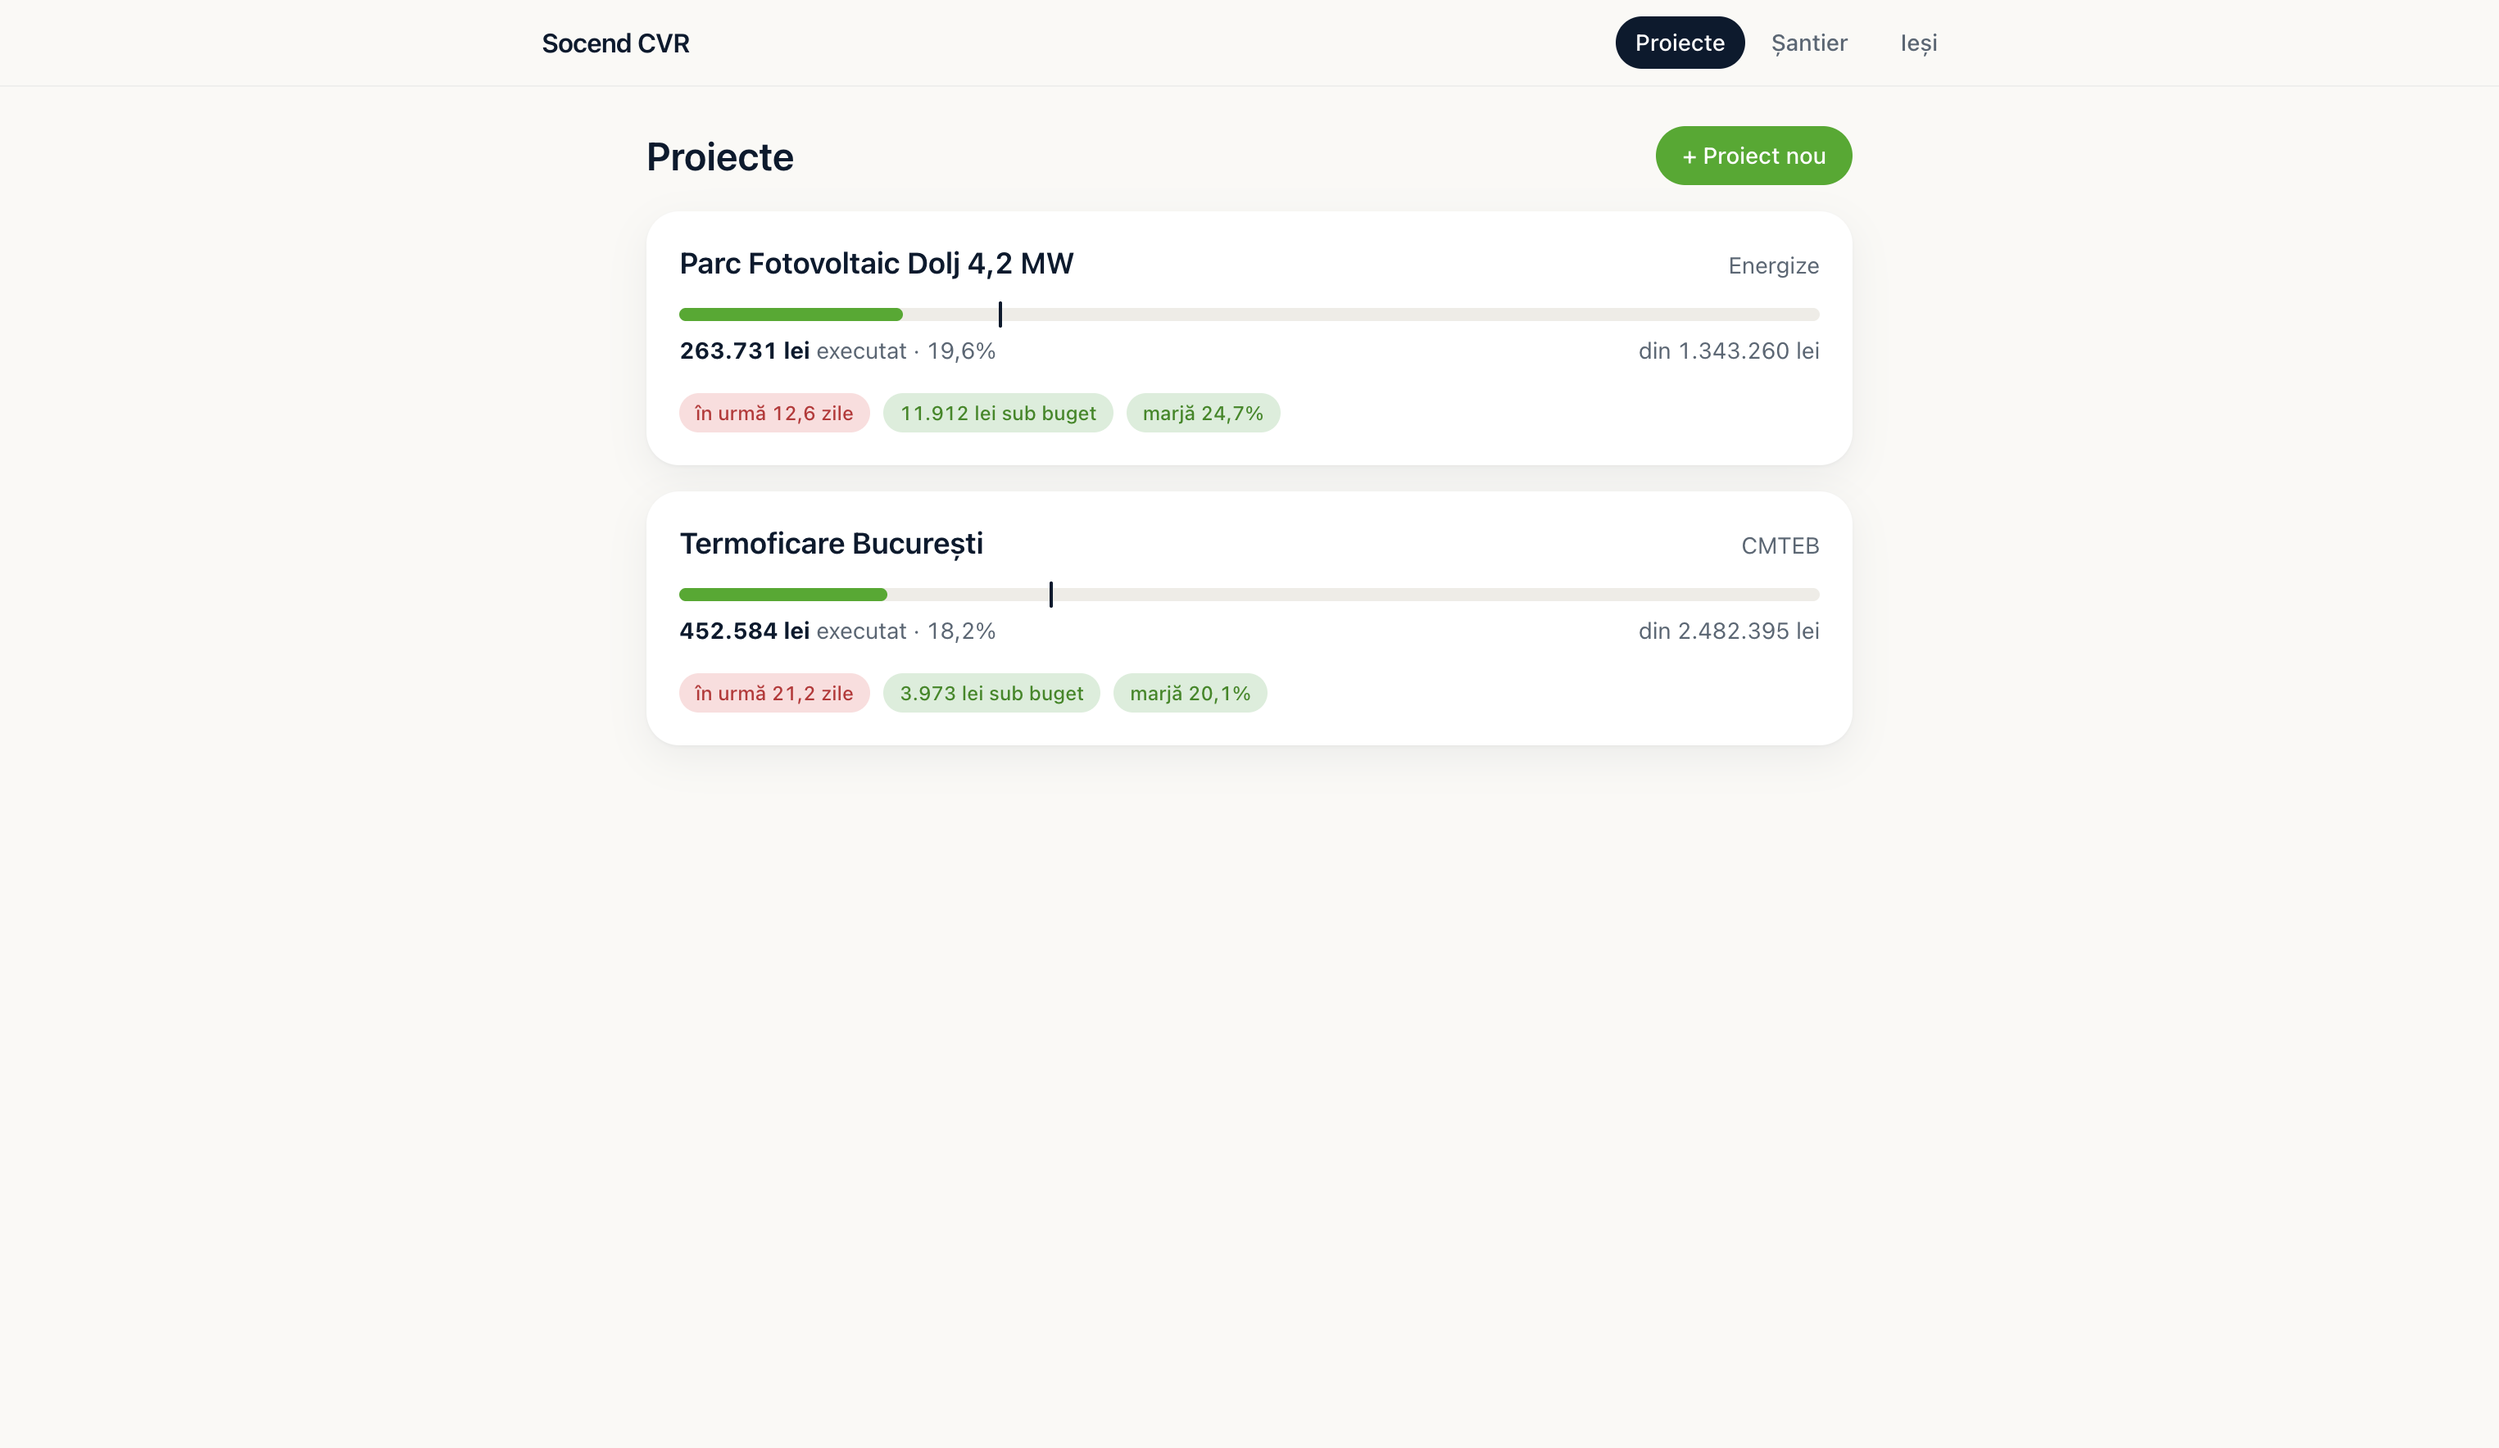
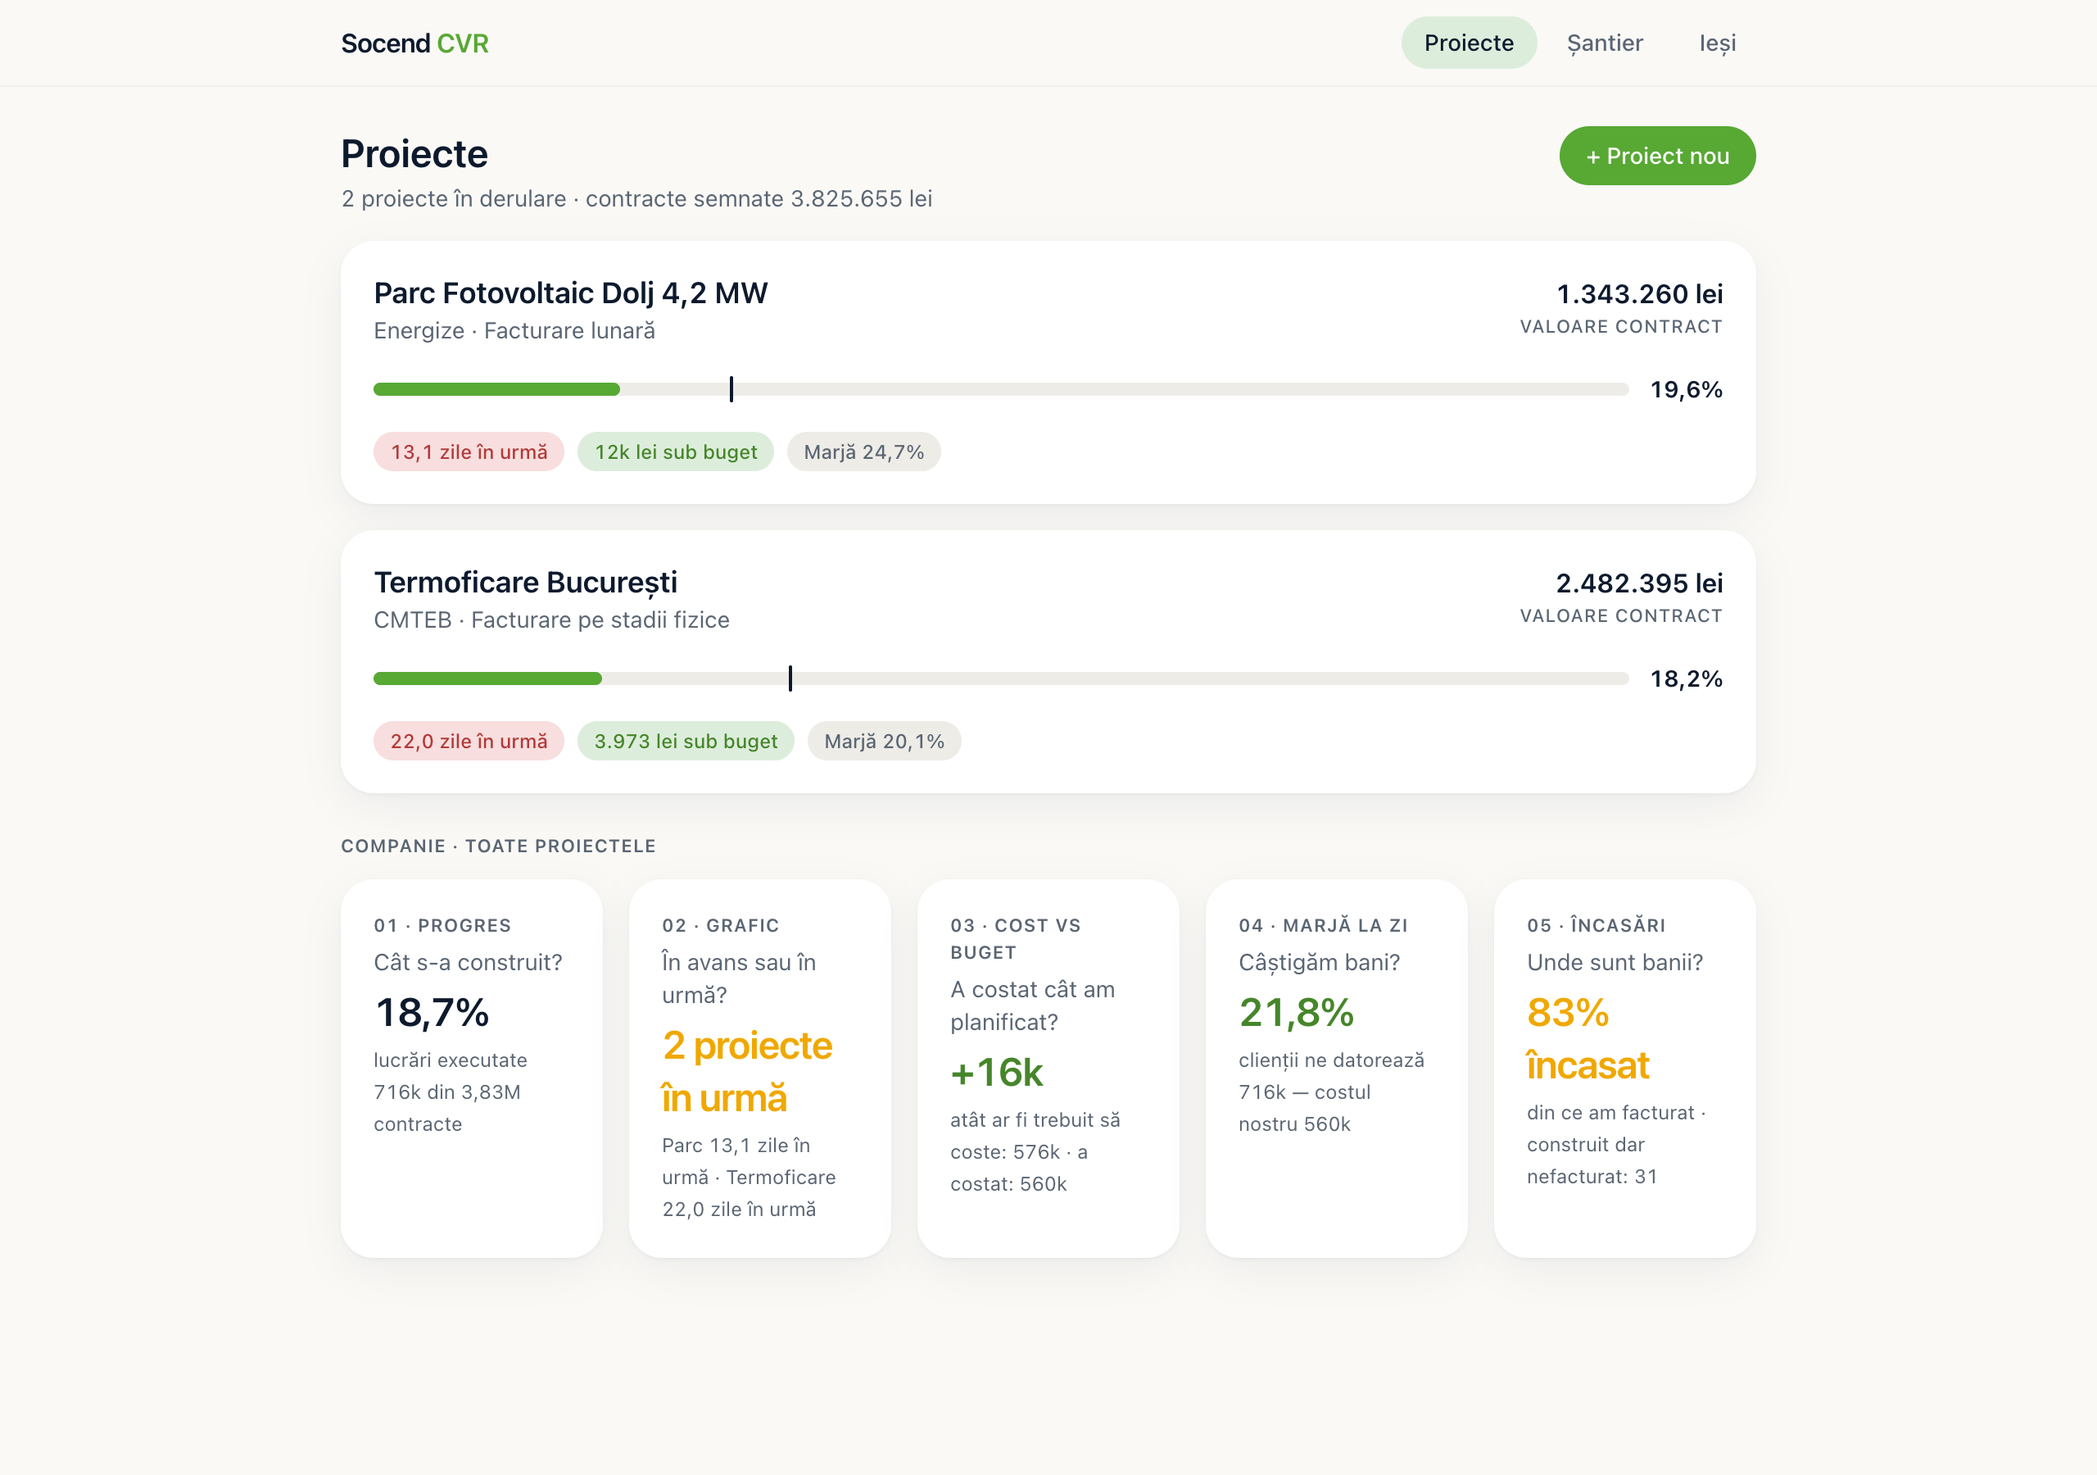
chore: qa screenshots + decisions + spec color note

diff --git a/DECISIONS.md b/DECISIONS.md
@@ -32,3 +32,7 @@ Claude Code writes one line here every time it makes a judgement call instead of
 | 2026-07-07 | 7/qa | Demo labour stub refreshed to current_date (was pinned to seed day and Șantier went empty at midnight) | labour_today filters on work_date = current_date by spec; refresh SQL: `update cvr_labour_stub set work_date = current_date` — until Pontaj replaces the stub |
 | 2026-07-07 | 8/ship | QA screenshots committed with `git add -f` although /qa is gitignored | BRIEF wants both: /qa in .gitignore AND screenshots in the PR. Committing them once is the only way GitHub can render them; the ignore rule still keeps future noise out |
 | 2026-07-07 | 8/ship | Created private repo alexpirvulesscu-dev/socend-cvr via gh | No remote existed; a free private repo is not a paid action, so not a hard stop |
+| 2026-07-07 | review/design | Design round from Alex's side-by-side screenshots: exact KPI questions (01·Progres „Cât s-a construit?" … 05·Încasări „Unde sunt banii?"), „Flux facturare client" relabeled Executat→Aprobat→Facturat→Încasat (DB columns keep their names), job cards separate + hover, full PT names, numbered tasks, per-livrabil % | The design file itself is still auth-blocked, but the screenshots showed the real design, so the reconciliation happened from them |
+| 2026-07-07 | review/design | Șantier header changed navy → teal #115468 (Alex's explicit request); CLAUDE.md palette note updated accordingly; worker emoji replaced with plain „N oameni azi · din Pontaj" | Review feedback overrides the original palette spec |
+| 2026-07-07 | review/cronologic | „Vedere cronologică" built on a new view `labour_daily` (same repointing contract as labour_today) + one-time demo history seed (0007): daily quantities distributed over working days so every deliverable's sum equals its existing qty_done — zero KPI impact | Alex asked for the matrix to pull labour "from Pontaj, but build a function"; the view IS that function |
+| 2026-07-07 | review/progres | Mihai's „Progres" view shows realizat / țintă la zi / total per livrabil; target = plan_pct(job) × cantitate totală; no lei anywhere on Șantier screens | Alex asked for three things: where we are, the target, the total — without money |

diff --git a/CLAUDE.md b/CLAUDE.md
@@ -30,7 +30,7 @@ Internal cost-vs-value (CVR) app for Socend Construct. Hierarchy: Proiect → Jo
 
 ## Design source
 - The imported Claude Design file `Socend CVR App.dc.html` is the single source of truth for layout, spacing, component structure and UI copy. Extract design tokens into `src/design/tokens.ts`.
-- Aesthetic: clean, Apple-like. White borderless cards on `#FAF9F6`, radius 16 to 20px, soft diffuse shadows, frosted translucent top bar, SF Pro or Inter, tabular numbers, generous white space. Dark navy `#0D1A2D` only on the Șantier day header, yellow `#E2E04A` only there.
+- Aesthetic: clean, Apple-like. White borderless cards on `#FAF9F6`, radius 16 to 20px, soft diffuse shadows, frosted translucent top bar, SF Pro or Inter, tabular numbers, generous white space. Teal `#115468` only on the Șantier day header (Alex changed it from navy at the 2026-07-07 review), yellow `#E2E04A` only there.
 - Palette: bg `#FAF9F6`, card `#FFFFFF`, border `#E8E8E8`, dark `#0D1A2D`/`#14263F`, text `#0D1A2D`/`#5B6673`, primary `#58A834` (hover `#46862A`, tint `#DDEDDC`), links `#115468`, success `#58A834`, warning `#F0A800`, error `#D64545`. Never pure black.
 
 ## Domain rules
